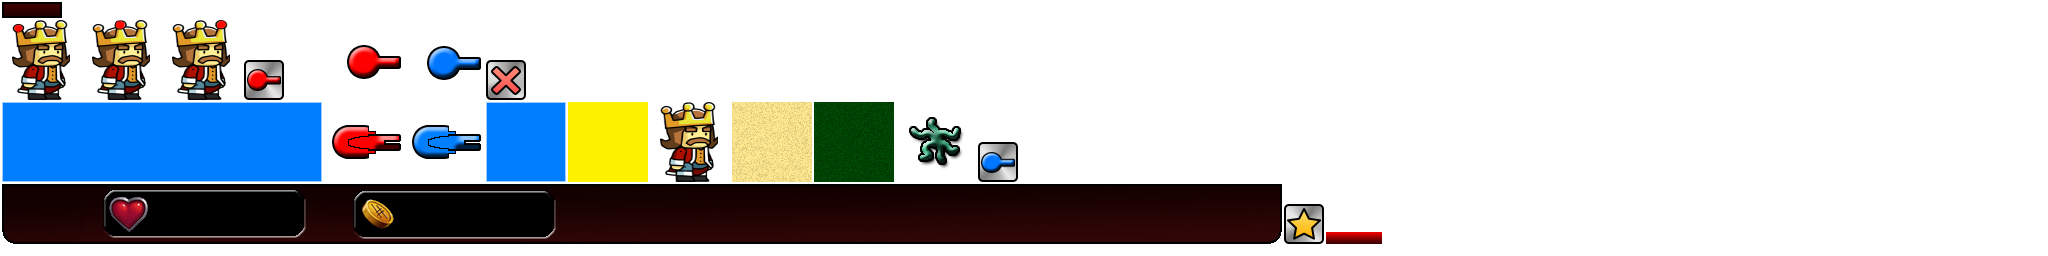
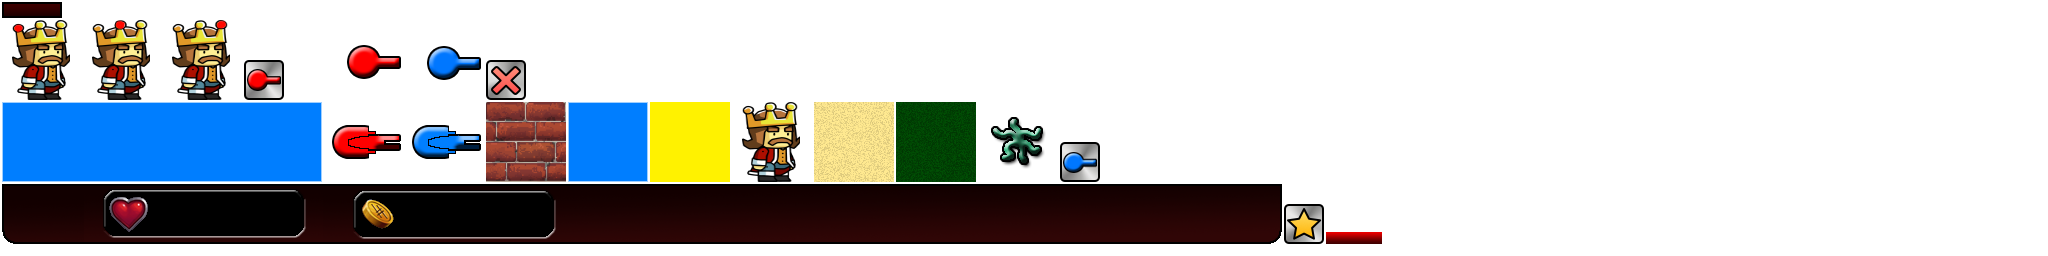
Added wall texture

Changed region(s): [[0.2188, 0.375, 0.5625, 0.7188]]

diff --git a/core/src/com/geekbrains/td/Map.java b/core/src/com/geekbrains/td/Map.java
@@ -21,6 +21,7 @@ public class Map {
     private int[][] data;
     private TextureRegion textureRegionGrass;
     private TextureRegion textureRegionRoad;
+    private TextureRegion textureRegionWall;
 
     private int[][] routeHelperArray;
 
@@ -30,6 +31,7 @@ public class Map {
 
         textureRegionGrass = Assets.getInstance().getAtlas().findRegion("grass");
         textureRegionRoad = Assets.getInstance().getAtlas().findRegion("road");
+        textureRegionWall = Assets.getInstance().getAtlas().findRegion("wall");
         loadMapFromFile(mapName);
     }
 
@@ -55,9 +57,9 @@ public class Map {
                     batch.draw(textureRegionRoad, i * 80, j * 80);
                 }
                 if (data[i][j] == ELEMENT_WALL) {
-                    batch.setColor(0, 0, 0, 1);
-                    batch.draw(textureRegionRoad, i * 80, j * 80);
-                    batch.setColor(1, 1, 1, 1);
+//                    batch.setColor(0, 0, 0, 1);
+                    batch.draw(textureRegionWall, i * 80, j * 80);
+//                    batch.setColor(1, 1, 1, 1);
                 }
             }
         }
